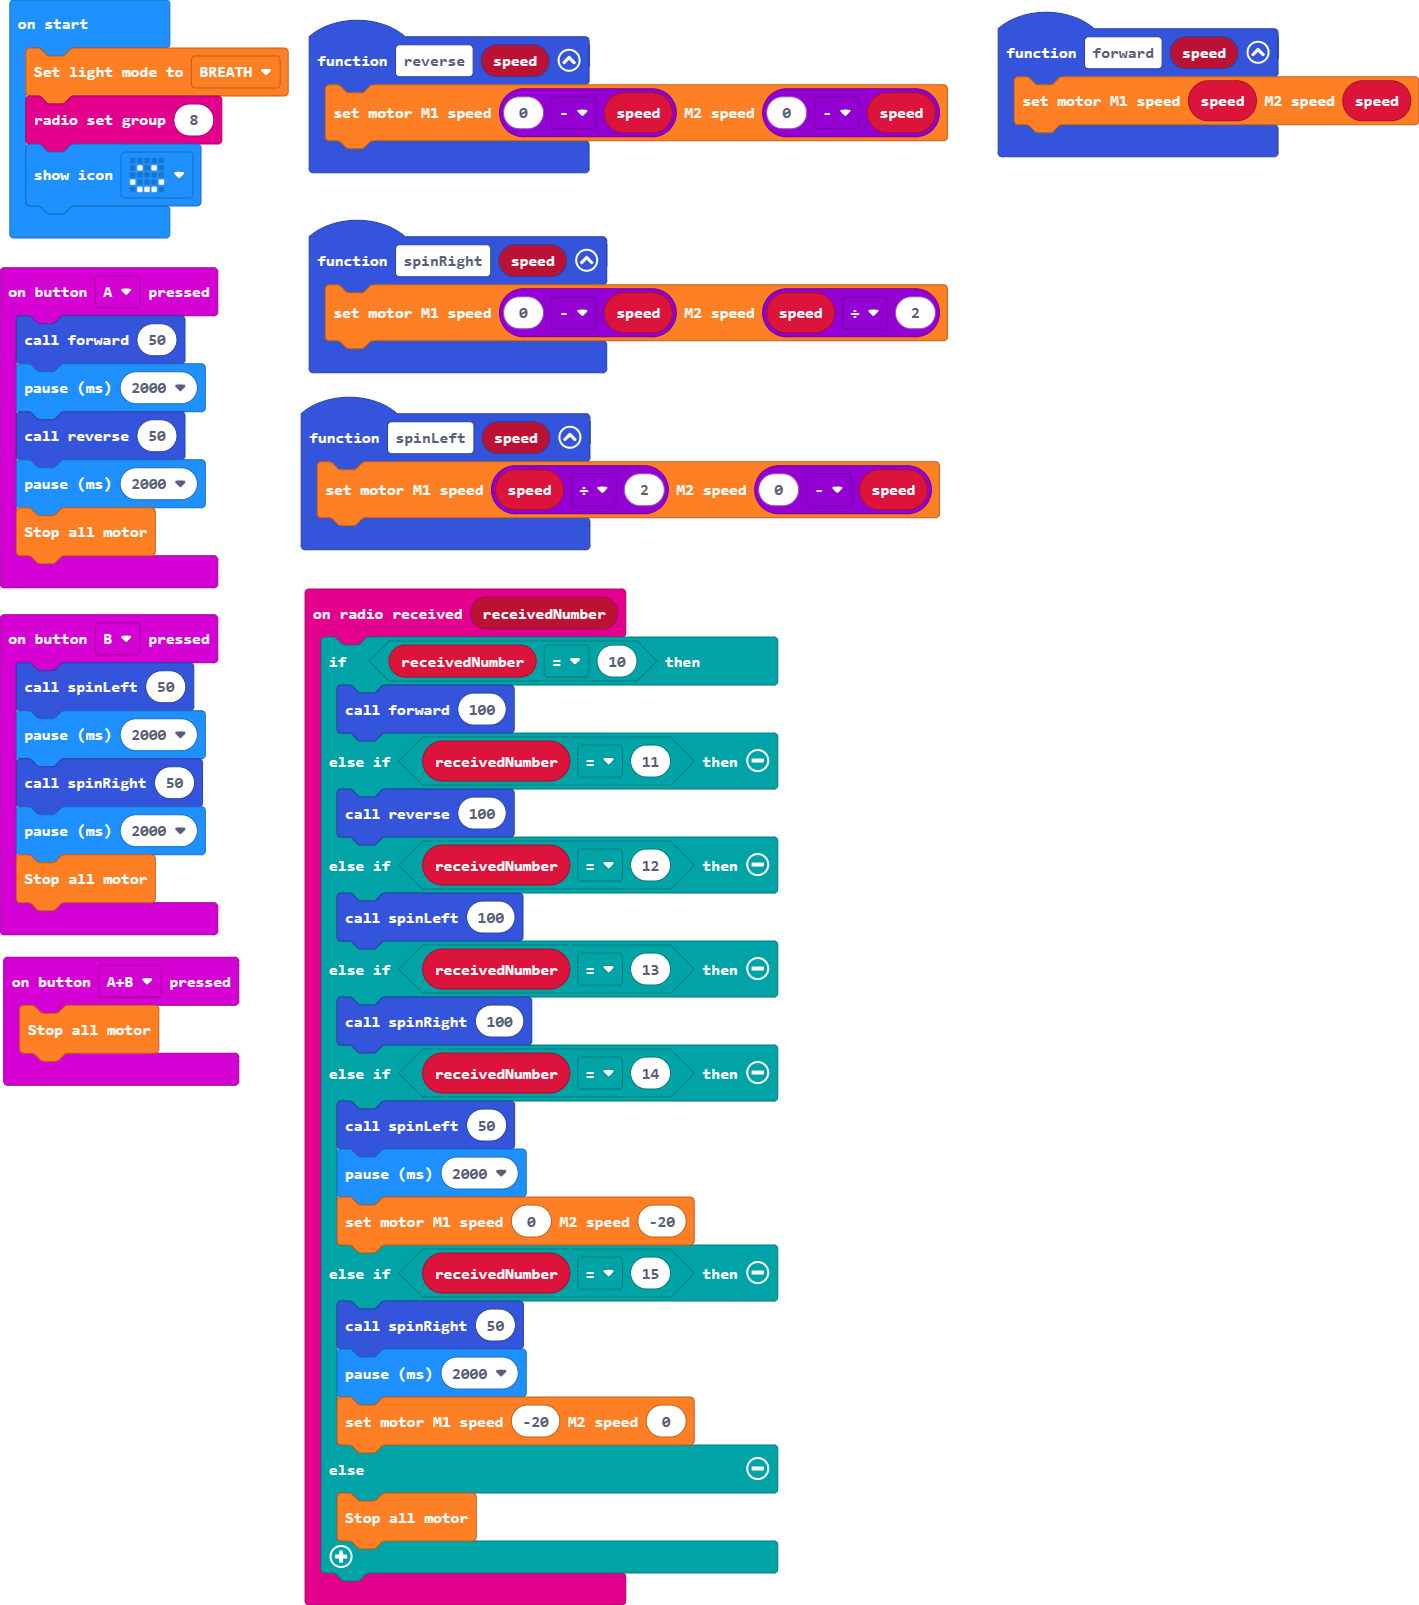
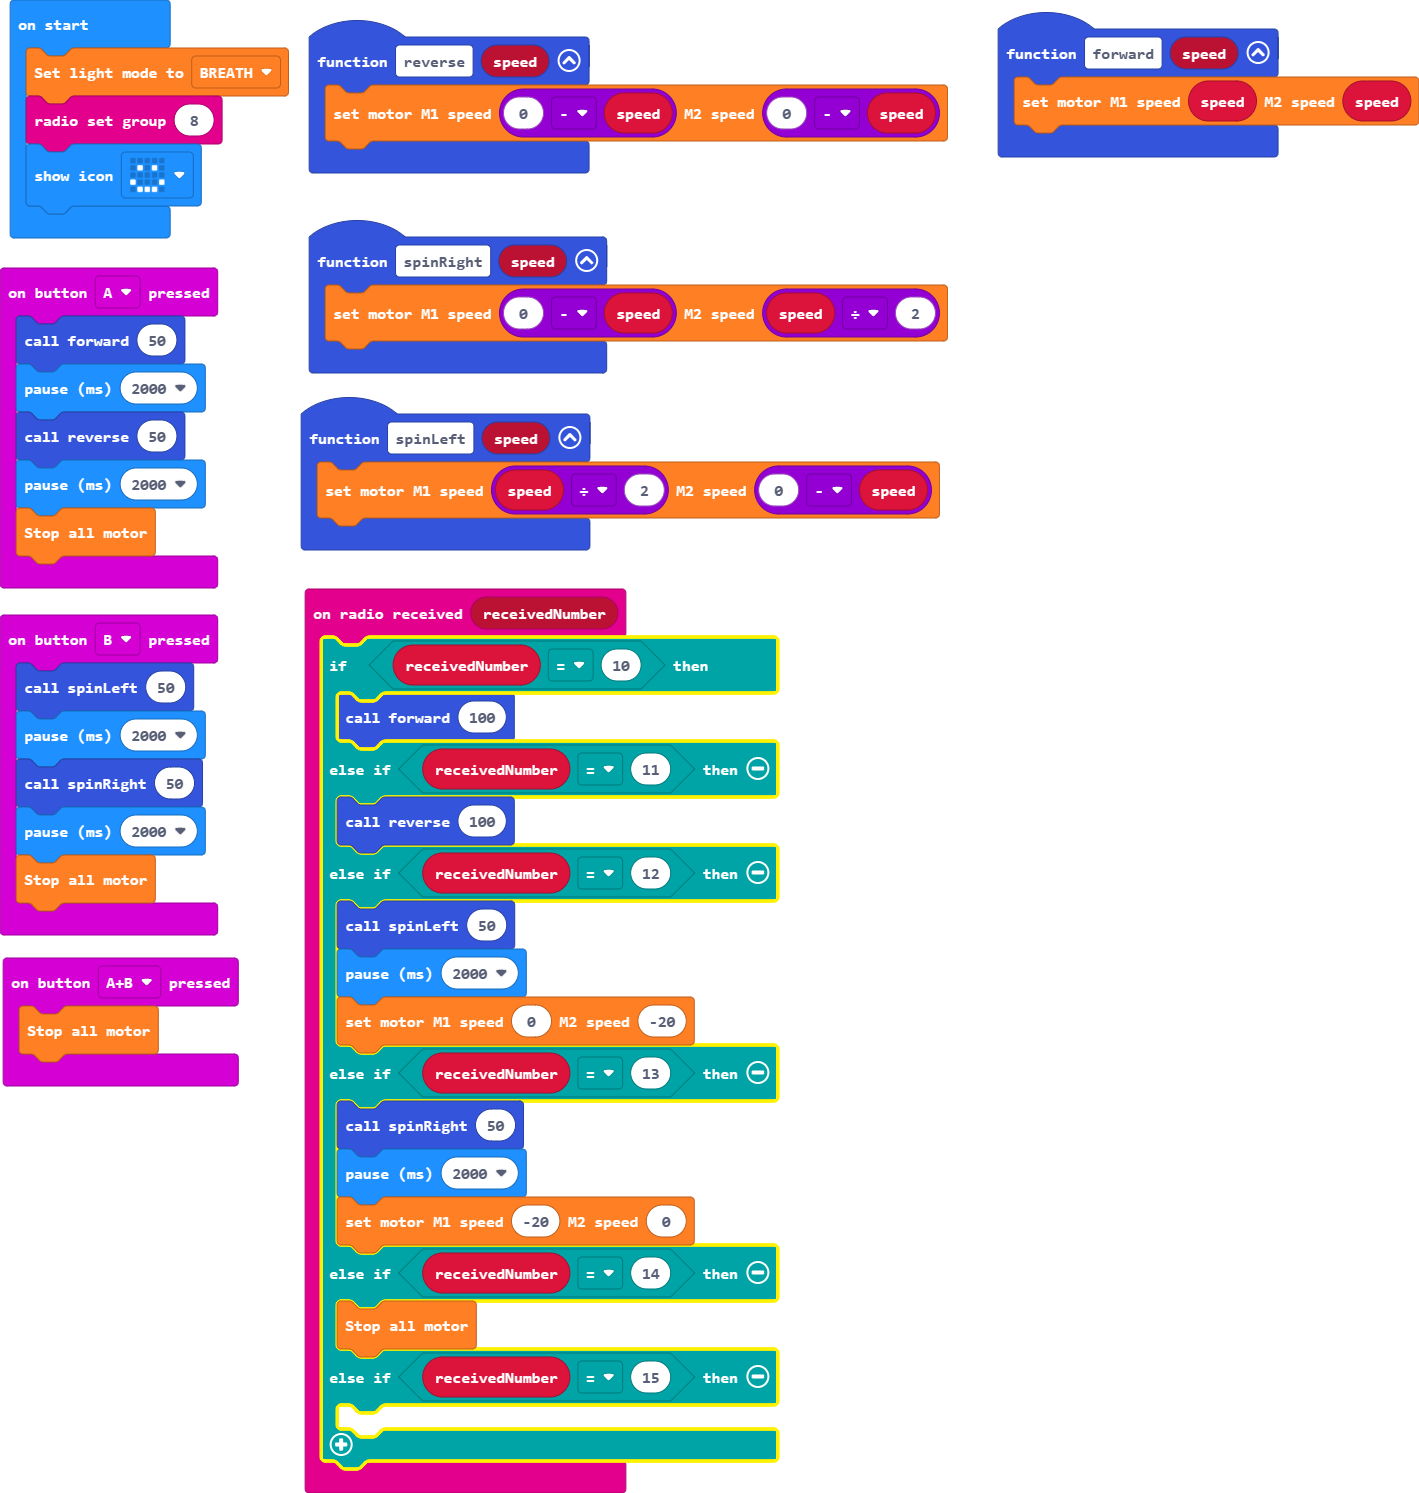
Update main.blocks, main.ts

Changed region(s): [[0.0, 0.0, 0.6822, 0.9859], [0.7132, 0.0, 1.0, 0.1232]]

diff --git a/main.ts b/main.ts
@@ -4,19 +4,17 @@ radio.onReceivedNumber(function (receivedNumber) {
     } else if (receivedNumber == 11) {
         reverse(100)
     } else if (receivedNumber == 12) {
-        spinLeft(100)
-    } else if (receivedNumber == 13) {
-        spinRight(100)
-    } else if (receivedNumber == 14) {
         spinLeft(50)
         basic.pause(2000)
         wuKong.setAllMotor(0, -20)
-    } else if (receivedNumber == 15) {
+    } else if (receivedNumber == 13) {
         spinRight(50)
         basic.pause(2000)
         wuKong.setAllMotor(-20, 0)
-    } else {
+    } else if (receivedNumber == 14) {
         wuKong.stopAllMotor()
+    } else if (receivedNumber == 15) {
+    	
     }
 })
 input.onButtonPressed(Button.A, function () {
